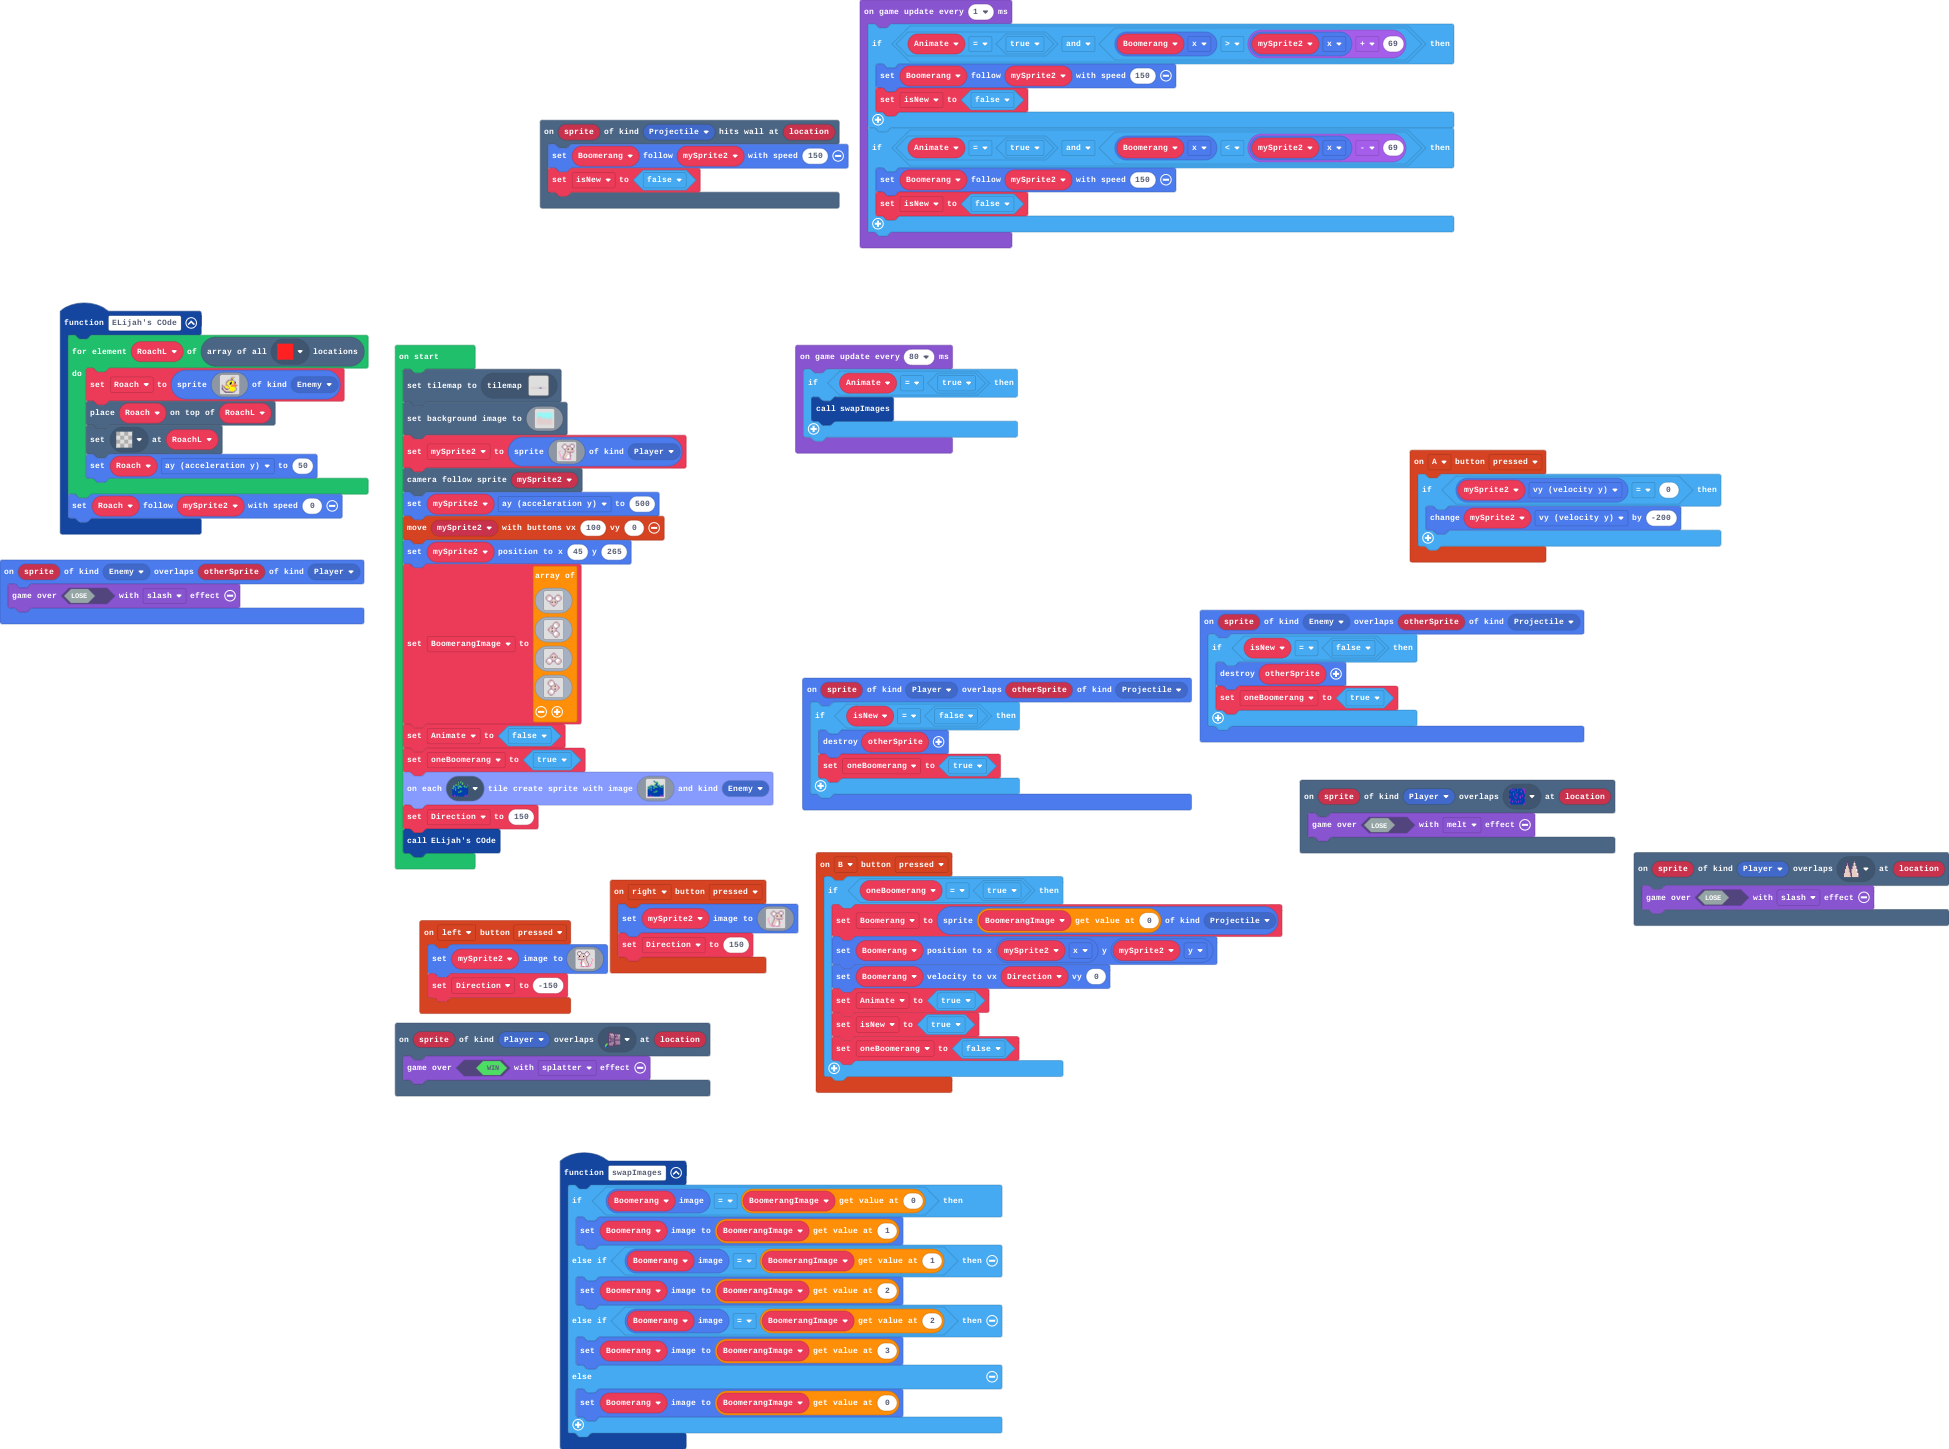
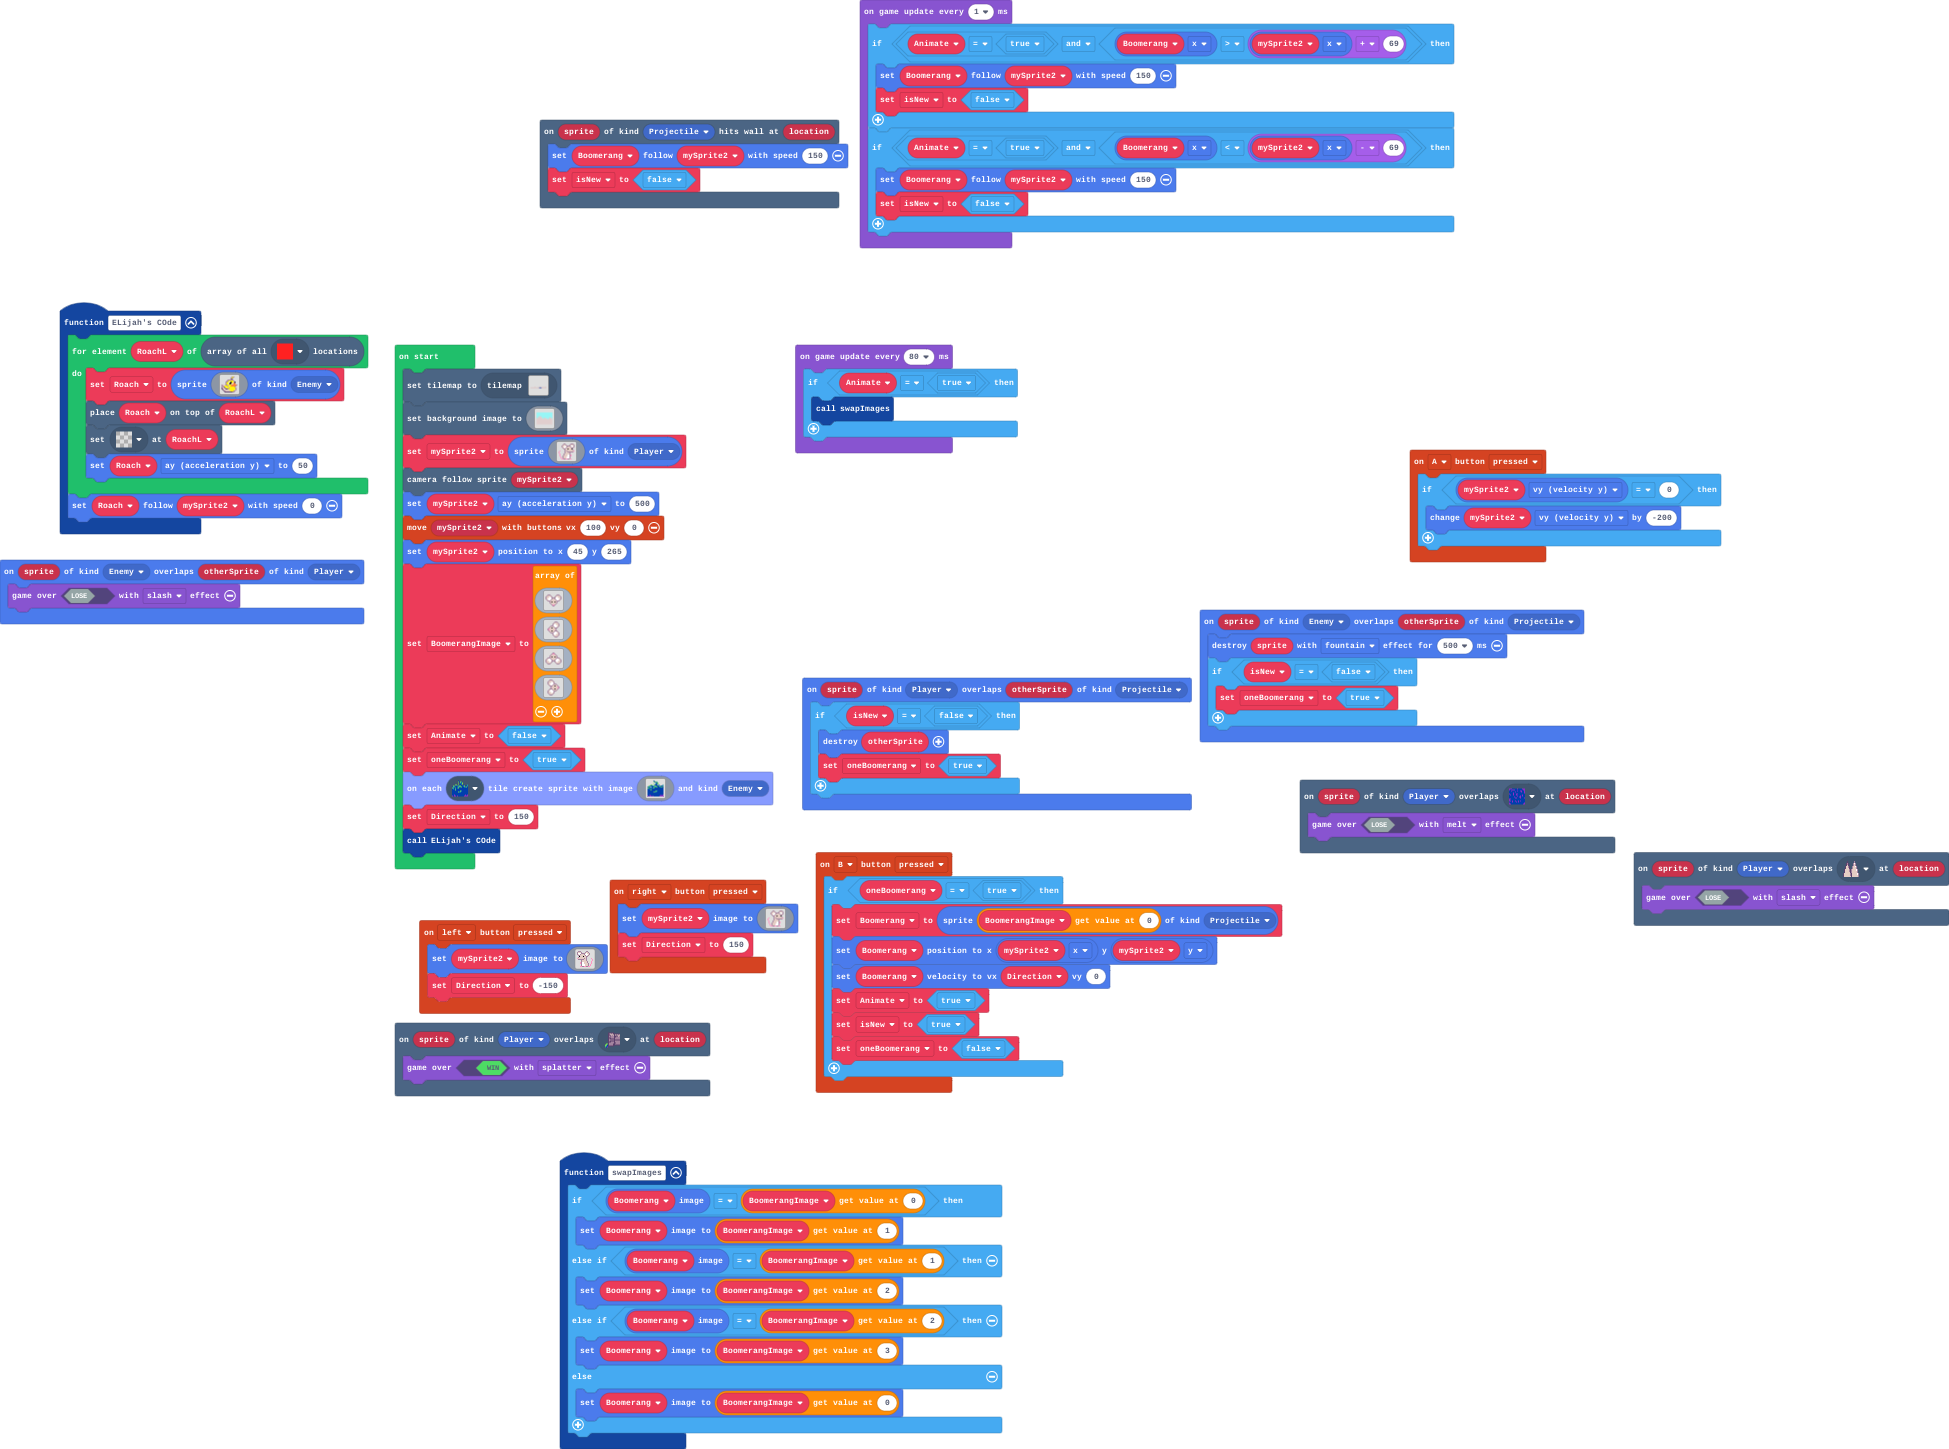
Update main.blocks, main.ts

Changed region(s): [[0.6157, 0.4348, 0.7696, 0.4969]]

diff --git a/main.ts b/main.ts
@@ -24,8 +24,8 @@ controller.left.onEvent(ControllerButtonEvent.Pressed, function () {
     Direction = -150
 })
 sprites.onOverlap(SpriteKind.Enemy, SpriteKind.Projectile, function (sprite, otherSprite) {
+    sprite.destroy(effects.fountain, 500)
     if (isNew == false) {
-        otherSprite.destroy()
         oneBoomerang = true
     }
 })
